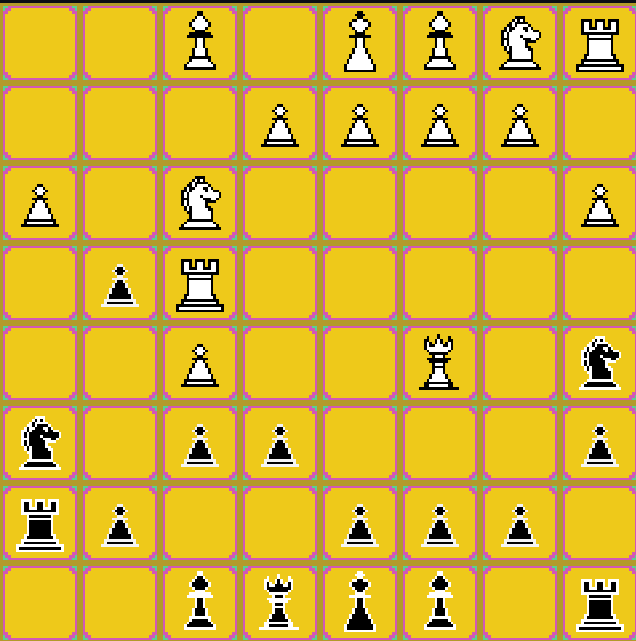
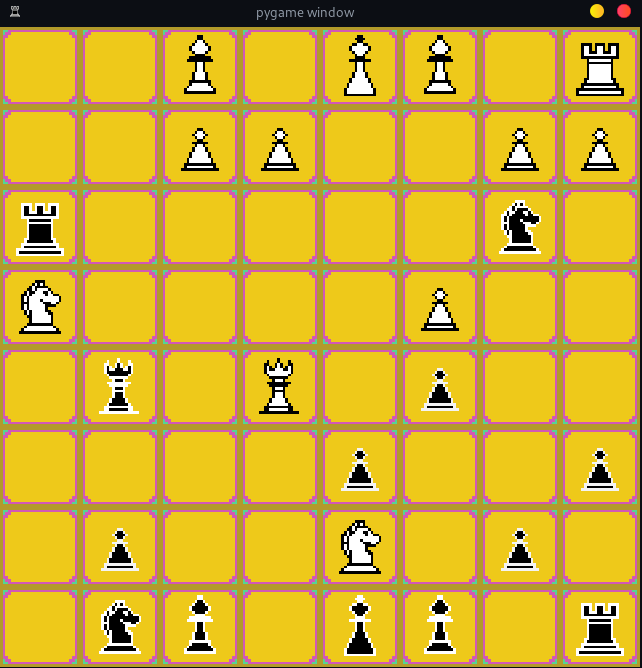
added selection border over selected piece

diff --git a/classes/Game.py b/classes/Game.py
@@ -111,8 +111,11 @@ class Game:
         pos = self.mouse_coords()
         if pos:
           if self.piece_selected:
-            self.turn(self.piece,pos)
-            self.piece_selected = False
+            if self.get_piece_from_coord(pos) != 0 and self.get_piece_from_coord(pos).color == self.players[self.focus].color:
+              self.piece = self.get_piece_from_coord(pos)
+            else:
+              self.turn(self.piece,pos)
+              self.piece_selected = False
           else:
             if self.get_piece_from_coord(pos):
               self.piece = self.get_piece_from_coord(pos)
@@ -123,7 +126,6 @@ class Game:
 
     possible_positions = self.board.filter(piece.possible_positions())
     if not possible_positions:
-      print("No possible positions :( choose a different piece")
       return False
     if pos not in possible_positions or (piece.color == "black" and player.num == 1) or (piece.color == "white" and player.num == 2):
       return False
@@ -148,7 +150,7 @@ class Game:
       player = self.players[self.focus]
 
       ret = self.take_move_input(player,piece,pos)
-        
+      
       if ret:
         if self.focus == 0:
           self.focus = 1
@@ -157,11 +159,19 @@ class Game:
       
       #self.checkmate_check(self.player1)
       #self.checkmate_check(self.player2)
+  def draw_selected(self):
+    if self.piece_selected:
+      if self.piece.color == self.players[self.focus].color:
+        self.screen.blit(chess_pieces["selected"],(80*self.piece.position[0],80*self.piece.position[1]))
+    
+
 
   def loop(self):
     while self.running:
       self.check_events()
 
       pygame.display.update()
+
+      #Draw board
       self.board.draw(self.screen)
-     
+      self.draw_selected()

diff --git a/classes/Setup.py b/classes/Setup.py
@@ -9,12 +9,12 @@ def setup():
 
     dir = "assets/"
     chess_files = ["Base.png","whitePawn.png","whiteKnight.png","whiteRook.png","whiteBishop.png","whiteQueen.png","whiteKing.png","blackPawn.png","blackKnight.png","blackRook.png","blackBishop.png","blackQueen.png","blackKing.png","selected.png"]
-    chess_names = ["base","w_pawn","w_knight","w_rook","w_bishop","w_queen","w_king","b_pawn","b_knight","b_rook","b_bishop","b_queen","b_king","selcted"] 
+    chess_names = ["base","w_pawn","w_knight","w_rook","w_bishop","w_queen","w_king","b_pawn","b_knight","b_rook","b_bishop","b_queen","b_king","selected"] 
   
     pygame.init()
     screen = pygame.display.set_mode((WIDTH,HEIGHT))
 
-    for i in range(13):
+    for i in range(14):
       file = chess_files[i]
       string = chess_names[i] 
       chess_pieces[string] = pygame.image.load(dir + file)

diff --git a/classes/Player.py b/classes/Player.py
@@ -6,6 +6,13 @@ class Player:
     self.num = num
     self.pieces = []
     self.king = 0
+    self.color = ""
+
+    if num == 1:
+      self.color = "white"
+    elif num == 2:
+      self.color = "black"
+
   def add_piece(self,piece):
     self.pieces.append(piece)
   def remove_piece(self,piece):
